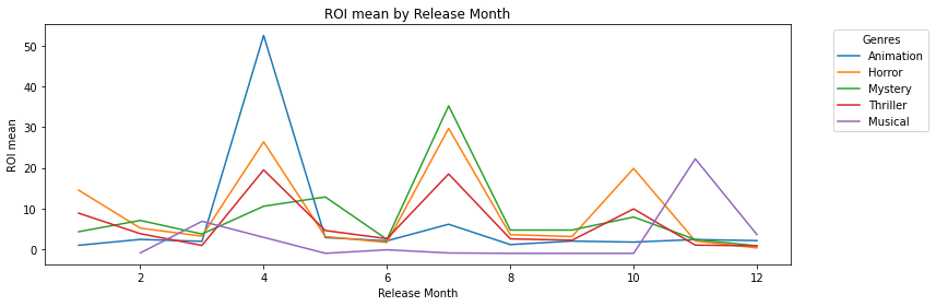
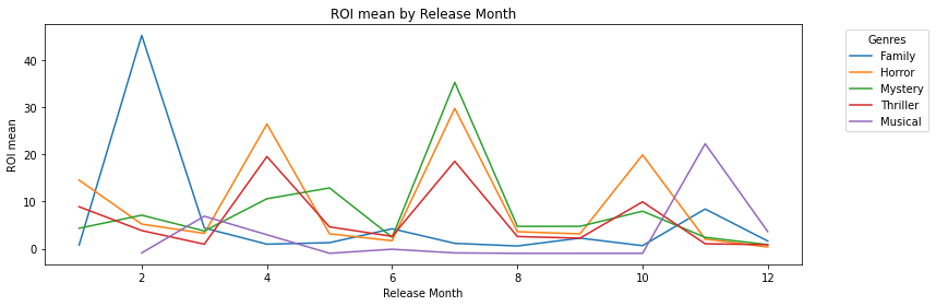
updated readme

diff --git a/README.md b/README.md
@@ -20,30 +20,30 @@ In building this business case, we analyzed data from Rotten Tomatoes, IMDb, The
       
 ![graph1](./images/Budget_&_ROI.png)
 
-2. We'll focus on the following genres to optimize ROI and ratings: i) Musical, ii) Animation, iii) Family,  iv) Mystery, and Horror
+2. We'll focus on the following genres to optimize ROI and ratings: i) Musical, ii) Mystery, iii) Horror,  iv) Thriller, and Family
     * Profitability will serve as primary driver in decision making; however, rating will play a part as producing highly rated movies is crucial in establishing legitimacy in the industry
     * Musicals tend to have the highest average ROI and fifth highest average rating in comparison to other genres (excluding outliers who's ROI is in the top 2% of the dataset)
-    * Animation, Family, and Mystery also have relatively high aveage ROI's while also, on average, receiving high ratings from critics
+    * Mystery, Thriller, and Family also have relatively high aveage ROI's while also, on average, receiving high ratings from critics
     * Although horror films are on average not highly rated in comparison to other genres, they do on average have high ROI's, as many horror films are inexpensive to make and garner massive cult followings with the potential to be catapulted to main stream success
   
 ![graph2](./images/Genre_Graphs.png)
 
 3. We will plan our releases for April, July, October, and November, as films released in these months have historically had the highest average ROI's
-    * Additionally,each year we'll devise a genre based annual launch schedule with animation films released in April, mystery/horror films realeased in July, horror films released in October, and musical films released in November
+    * Additionally,each year we'll devise a genre based annual launch schedule with family movies released in February; Mystery, Horror, and Thrillers released in April, July, and October; and Musicals relased in November
   
 ![graph3](./images/ROI_by_month.png)
 
 ![graph4](./images/ROI_by_genre_by_month.png)
 
-4. We aim to work with writers and directors whose prior films are highly rated in comparison to peers
-    * We found that at a 95% confidence level, movies that have a solor director on average are rated higher than movies that have a group of directors
-    * With that, we'd like to wor with directors who not only have a history of directing highly rated movies but also have done so on projects where they are the sole director, such as Quentin Tarantino, Christopher Nolan, and Martin Scorcese among others shown below.
+4. We aim to work with writers and directors whose prior films in the genres we're focussed on are highly rated in comparison to peers
+    * We found that at a 95% confidence level, movies that have a solo director on average are rated higher than movies that have a group of directors
+    * With that, we'd like to work with directors who not only have a history of directing highly rated movies but also have done so on projects where they are the sole director, such as Damien Chazelle, Spike Lee, and Jordan Peele among others shown below.
 
 ![graph5](./images/top_directors.png)
 
 ![graph6](./images/top_solo_directors.png)
 
-  * Additionally we'd like to work with writers whose prior films have been highly rated such as Jim Starlin, Christopher Nolan, and Mark Monroe
+  * Additionally we'd like to work with writers whose prior films in the genres we're focussed on have been highly rated such as Quentin Tarantino, Alain Boubil, and Claude-Michael Schonberg among others
   * We also found that at a 95% confidence level, films where the writer also directs are on average rated higher than films where the writer is not involved in direction
   * With that, we'd like to encourage writers we're working with to also direct their films and believe this could result in cost savings as well
 
@@ -52,9 +52,10 @@ In building this business case, we analyzed data from Rotten Tomatoes, IMDb, The
 ## Conclusion
 With the below insights driving decision making, we are beyond excited for what the future holds at RE Studios and are confident success is imminent.
 1. We intend on pursuing projects that require ~$4M in funding and believe with 95% confidence, these films will have a mean ROI between 8-12x investment
-2. We'll focus on the following genres to optimize ROI and ratings: i) Musical, ii) Animation, iii) Family,  iv) Mystery, and Horror
+2. We'll focus on the following genres to optimize ROI and ratings: i) Musical, ii) Mystery, iii) Horror, iv) Thriller, v) Family
 3. We will plan our releases for February, July, October, and November, as films released in these months have historically had the highest average ROI's, and we have devised a genre based annual release schedule
 4. We'll aim to work with writers and directors whose prior films are highly rated in comparison to peers, and we will encourage writers to participate in direction
+
 
 ## Additional Considerations and Next Steps
 1. We'd like to dive deeper into how budget and ROI are related on a by genre basis
